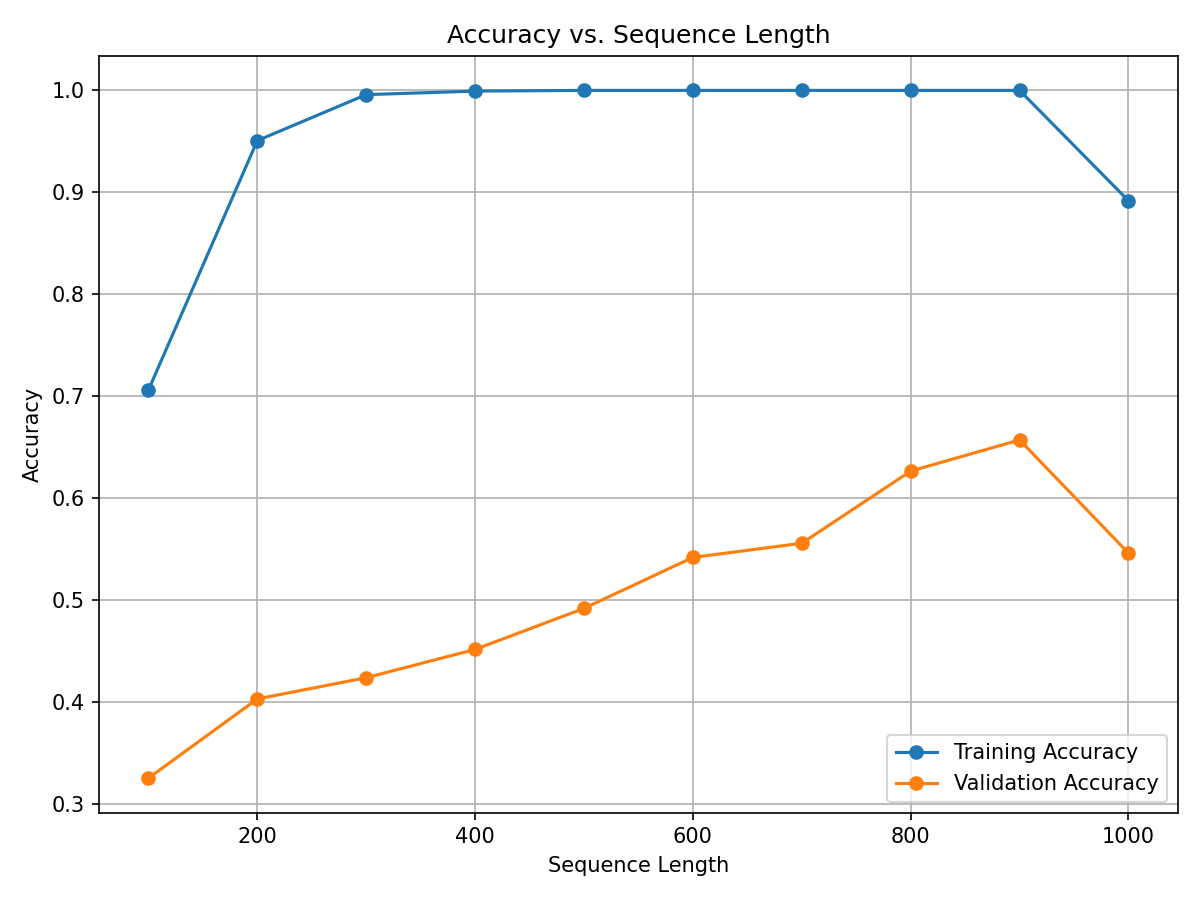
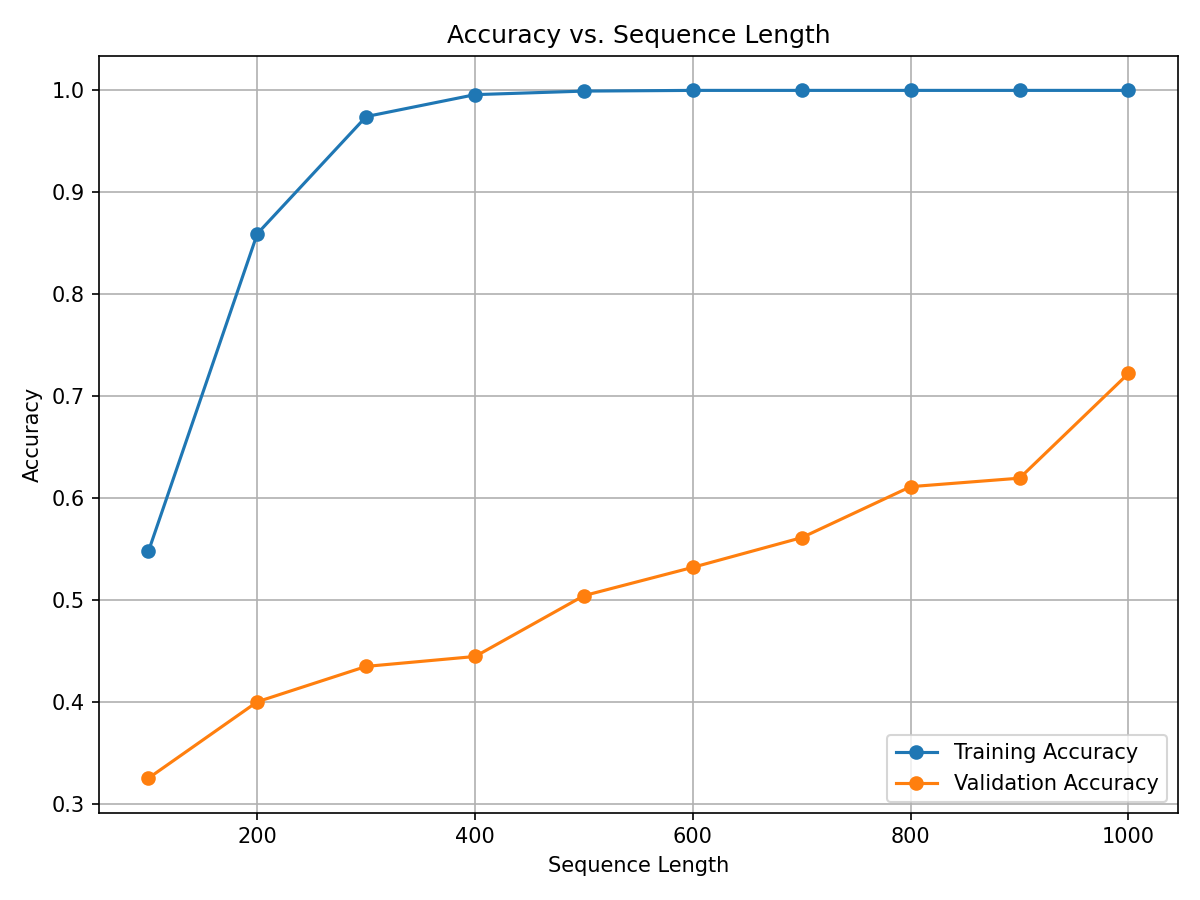
feat: tested stuff for from-scratch-inn

diff --git a/utils/data_loader.py b/utils/data_loader.py
@@ -4,24 +4,35 @@ import torch
 from torch.utils.data import Dataset
 
 class TactileMaterialDataset(Dataset):
-    def __init__(self, file_path, split='train', train_split=0.8, sequence_length=1000, data_augment=False):
+    def __init__(self, file_path, synthetic_file_path=None, split='train', train_split=0.8, sequence_length=1000, data_augment=False):
         """
-        Dataset for tactile material classification with optional data augmentation.
+        Dataset for tactile material classification with support for synthetic data and optional data augmentation.
 
         Args:
-            file_path (str): Path to the HDF5 file.
+            file_path (str): Path to the HDF5 file with original data.
+            synthetic_file_path (str): Path to the HDF5 file with synthetic data (used only for training).
             split (str): 'train' or 'val'.
             train_split (float): Ratio of data to use for training (remainder for validation).
             sequence_length (int): Desired length of each sample sequence.
-            data_augment (bool): Whether to apply Gaussian noise augmentation (only in training split).
+            data_augment (bool): Whether to apply Gaussian noise augmentation (only for training).
         """
         self.sequence_length = sequence_length
         self.data_augment = data_augment and split == 'train'  # Augment only for training data
 
+        # Load original data
         with h5py.File(file_path, 'r') as dataset:
-            samples = dataset['samples'][:]  # Shape: [materials, samples, time_steps, taxels_x, taxels_y]
-            materials = dataset['materials'][:]
-            materials = [m.decode('utf-8') for m in materials]  # Decode material names if necessary
+            original_samples = dataset['samples'][:]  # Shape: [materials, samples, time_steps, taxels_x, taxels_y]
+            original_materials = dataset['materials'][:]
+            self.materials = [m.decode('utf-8') for m in original_materials]
+
+        # Optionally load synthetic data for training
+        if split == 'train' and synthetic_file_path:
+            with h5py.File(synthetic_file_path, 'r') as dataset:
+                synthetic_samples = dataset['samples'][:]
+            # Combine original and synthetic samples
+            samples = np.concatenate((original_samples, synthetic_samples), axis=1)  # Combine along sample axis
+        else:
+            samples = original_samples
 
         np.random.seed(42)
 
@@ -29,6 +40,7 @@ class TactileMaterialDataset(Dataset):
         for i in range(samples.shape[0]):
             np.random.shuffle(samples[i])
 
+        # Train/Validation split
         total_size = samples.shape[1]
         train_size = int(train_split * total_size)
         indices = np.arange(total_size)
@@ -41,10 +53,11 @@ class TactileMaterialDataset(Dataset):
         else:
             raise ValueError("split must be 'train' or 'val'")
 
+        # Subset the data and labels
         data_split = samples[:, chosen_indices, ...]
         label_split = np.repeat(np.arange(samples.shape[0]), len(chosen_indices))
 
-        # Flatten
+        # Flatten data
         self.full_sequences = data_split.reshape(-1, data_split.shape[2], data_split.shape[3], data_split.shape[4])
         self.labels = label_split
 
@@ -52,36 +65,37 @@ class TactileMaterialDataset(Dataset):
         all_labels = []
 
         for i in range(len(self.full_sequences)):
-            full_seq = self.full_sequences[i]  # shape: [T, 4, 4]
+            full_seq = self.full_sequences[i]  # Shape: [T, 4, 4]
             label = self.labels[i]
 
             T = full_seq.shape[0]
             if T < self.sequence_length:
-                raise ValueError(f"Sequence length {self.sequence_length} is longer than original sequence length {T}")
+                raise ValueError(f"Sequence length {self.sequence_length} is longer than the sample's length ({T})")
 
+            # Select a random snippet of length sequence_length
             start_idx = np.random.randint(0, T - self.sequence_length + 1)
             snippet = full_seq[start_idx : start_idx + self.sequence_length]
 
             # Flatten spatial dimensions [4,4] -> 16
             snippet = snippet.reshape(self.sequence_length, 16)
 
-            # Add Gaussian noise if augmentation is enabled
+            # Add Gaussian noise if data augmentation is enabled
             if self.data_augment:
                 noise = np.random.normal(loc=0.0, scale=0.01, size=snippet.shape).astype(snippet.dtype)
                 snippet += noise
 
-
             all_snippets.append(snippet)
             all_labels.append(label)
 
+        # Convert to PyTorch tensors
         self.snippets = torch.tensor(all_snippets, dtype=torch.float32)
-        self.labels   = torch.tensor(all_labels, dtype=torch.long)
+        self.labels = torch.tensor(all_labels, dtype=torch.long)
 
-        # Add the channel dimension if your model expects [N, 1, T, 16]
-        self.snippets = self.snippets.unsqueeze(1)  # shape => [N, 1, seq_len, 16]
+        # Add channel dimension for models expecting [N, 1, T, 16]
+        self.snippets = self.snippets.unsqueeze(1)  # Shape: [N, 1, seq_len, 16]
 
         print(f"{split.capitalize()} dataset final size: {len(self.snippets)}")
-        print(f"Snippet shape: {self.snippets.shape}")  
+        print(f"Snippet shape: {self.snippets.shape}")
 
     def __len__(self):
         return len(self.snippets)

diff --git a/scripts/gmm_augmentation.py b/scripts/gmm_augmentation.py
@@ -1,0 +1,106 @@
+from sklearn.mixture import GaussianMixture
+import numpy as np
+import os
+import sys
+import h5py
+import pickle
+import torch
+import torch.nn as nn
+import torch.optim as optim
+from torch.utils.data import DataLoader
+
+project_root = os.path.abspath(os.path.join(os.path.dirname(__file__), '..'))
+if project_root not in sys.path:
+    sys.path.append(project_root)
+
+from utils.data_loader import TactileMaterialDataset
+from models.TactNetII_model import TactNetII
+
+device = torch.device("cuda:0" if torch.cuda.is_available() else "cpu")
+output_dir = "output"  
+os.makedirs(output_dir, exist_ok=True)
+
+def train_gmms(data, num_materials, n_components=5):
+    """
+    Train a GMM for each material.
+
+    Args:
+        data: The dataset as a NumPy array of shape [materials, samples, timesteps, taxels].
+        num_materials: Number of materials in the dataset.
+        n_components: Number of GMM components.
+
+    Returns:
+        A list of trained GMM models for each material.
+    """
+    gmms = []
+
+    for material_idx in range(num_materials):
+        # Extract all samples for this material
+        material_data = data[material_idx]  # Shape: [samples, timesteps, taxels_x, taxels_y]
+        
+        # Extract the last 500 timesteps and flatten spatial dimensions
+        last_500_data = material_data[:, -500:, :, :].reshape(-1, 500 * 16)  # Shape: [samples, 500 * 16]
+        
+        # Train GMM
+        gmm = GaussianMixture(n_components=n_components, random_state=42)
+        gmm.fit(last_500_data)
+        gmms.append(gmm)
+        print(f"Trained GMM for material {material_idx + 1}/{num_materials}")
+
+    return gmms
+
+def generate_synthetic_samples(data, gmms, sequence_length=1000, synthetic_length=500):
+    """
+    Generate synthetic samples for the dataset using trained GMMs.
+
+    Args:
+        data: Original dataset as a NumPy array of shape [materials, samples, timesteps, taxels].
+        gmms: List of trained GMM models for each material.
+        sequence_length: Original sequence length.
+        synthetic_length: Length of synthetic data to append.
+
+    Returns:
+        An enlarged dataset with synthetic sequences appended.
+    """
+    num_materials, num_samples, _, _, _ = data.shape
+    synthetic_data = []
+
+    for material_idx in range(num_materials):
+        material_data = data[material_idx]  # Shape: [samples, timesteps, taxels_x, taxels_y]
+        material_synthetic = []
+
+        for sample in material_data:
+            # Reshape the sample for GMM input
+            sample_flat = sample[-500:, :, :].reshape(-1)  # Use the last 500 timesteps as context
+            
+            # Generate synthetic data
+            synthetic_flat = gmms[material_idx].sample(synthetic_length)[0]  # Shape: [synthetic_length * 16]
+            synthetic = synthetic_flat.reshape(synthetic_length, 4, 4)  # Reshape back to [500, 4, 4]
+
+            # Append the synthetic data to the original sample
+            enlarged_sample = np.concatenate((sample, synthetic), axis=0)  # [1000+500, 4, 4]
+            material_synthetic.append(enlarged_sample)
+
+        synthetic_data.append(np.array(material_synthetic))  # Append all samples for this material
+
+    return np.array(synthetic_data)
+
+
+if __name__ == "__main__":
+        
+    # Load your original dataset
+    with h5py.File("data/raw/tactmat.h5", "r") as dataset:
+        samples = dataset["samples"][:]  # Shape: [materials, samples, timesteps, taxels_x, taxels_y]
+
+    num_materials = samples.shape[0]
+
+    # Train GMMs for each material
+    gmms = train_gmms(samples, num_materials, n_components=5)
+
+    # Generate synthetic samples
+    enlarged_samples = generate_synthetic_samples(samples, gmms, sequence_length=1000, synthetic_length=500)
+
+    # Save the augmented dataset
+    with h5py.File("data/augmented_tactmat.h5", "w") as augmented_dataset:
+        augmented_dataset.create_dataset("samples", data=enlarged_samples)
+        augmented_dataset.create_dataset("materials", data=dataset["materials"][:])
